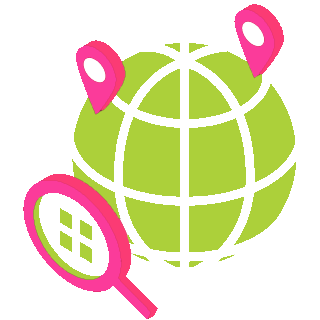
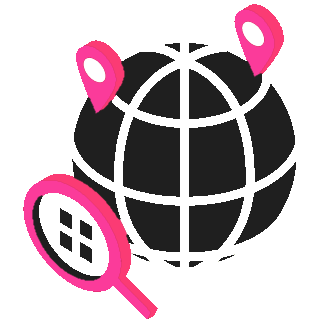
better background, inverted and mobile responsiveness

Changed region(s): [[0.5938, 0.125, 0.9375, 0.8438], [0.2188, 0.125, 0.5625, 0.8438], [0.0938, 0.5938, 0.3125, 0.875]]

diff --git a/index.html b/index.html
@@ -45,7 +45,7 @@
                     <div class="padding-xlg"></div>
                     <div class="right-side">
                         <div class="landing-title"> <span style="color: var(--white);">MIS</span><br><span class="second">INFORMATION</span><span style="font-size: 2vmax; color: var(--white);" class="disappear">/misinfər'māSH(ə)n/<span></div>
-                        <div class="landing-info">false or inaccurate information, especially that which <br>is deliberately intended to deceive.</div>
+                        <div class="landing-info">false or inaccurate information, especially that which <br class="disappear">is deliberately intended to deceive.</div>
                     </div>
                 </div>
             </div>
@@ -205,6 +205,9 @@
                     document.documentElement.style.setProperty('--white', '#1f1f1f');
                     document.documentElement.style.setProperty('--whiter', '#1f1f1f');
                     document.documentElement.style.setProperty('--grey', '#8F8F8F');
+                    document.documentElement.style.setProperty('--background', '#f1f1f1');
+                    document.documentElement.style.setProperty('--foreground', '#f1f1f177');
+     
                     $("#landing-img").attr("src","assets/landing-inverted.png");
 
                     $("#solutions-img-1").attr("src","assets/solutions/inverted/research-inverted.png");
@@ -228,6 +231,9 @@
                     document.documentElement.style.setProperty('--white', '#d4d4d4');
                     document.documentElement.style.setProperty('--whiter', '#FFFFFF');
                     document.documentElement.style.setProperty('--grey', '#707070');
+                    document.documentElement.style.setProperty('--background', '#000000');
+                    document.documentElement.style.setProperty('--foreground', '#00000077');
+
                     $("#landing-img").attr("src","assets/landing.png");
 
                     $("#solutions-img-1").attr("src","assets/solutions/research.png");

diff --git a/css/index.css b/css/index.css
@@ -6,6 +6,10 @@
     --darkred: #731010;
     --lightred: #a80000;
     --green: #ACD03A;
+
+    --background: #000000;
+    --foreground: #00000077;
+
 }
 
 * {
@@ -14,13 +18,28 @@
     padding: 0;
     margin: 0;
     font-smooth: always;
+
 }
 
 body {
     background-color: var(--black);
     overflow-x: hidden;
+    background-color: var(--black);
+    background-image:  
+        linear-gradient(30deg, var(--background) 12%, transparent 12.5%, transparent 87%, var(--background) 87.5%, var(--background)), 
+        linear-gradient(150deg, var(--background) 12%, transparent 12.5%, transparent 87%, var(--background) 87.5%, var(--background)), 
+        linear-gradient(30deg, var(--background) 12%, transparent 12.5%, transparent 87%, var(--background) 87.5%, var(--background)), 
+        linear-gradient(150deg, var(--background) 12%, transparent 12.5%, transparent 87%, var(--background) 87.5%, var(--background)), 
+        linear-gradient(60deg, var(--foreground) 25%, transparent 25.5%, transparent 75%, var(--foreground)  75%, var(--foreground) ), 
+        linear-gradient(60deg, var(--foreground)  25%, transparent 25.5%, transparent 75%, var(--foreground)  75%, var(--foreground) );
+    background-size: 20px 35px;
+    background-position: 0 0, 0 0, 10px 18px, 10px 18px, 0 0, 10px 18px;
 }
 
+.main-body-wrapper {
+    display: flex;
+    flex-direction: column;
+}
 .font-league {
     font-family: 'League Gothic', sans-serif;
 }
@@ -98,6 +117,15 @@ body {
     opacity: 0.40;
     z-index: 5;
     transition: opacity 0.3s;
+    box-shadow:
+    0.2px 0.3px 2.7px -7px rgba(0, 0, 0, 0.141),
+    0.4px 0.8px 6.6px -7px rgba(0, 0, 0, 0.202),
+    0.8px 1.5px 12.4px -7px rgba(0, 0, 0, 0.25),
+    1.3px 2.7px 22.1px -7px rgba(0, 0, 0, 0.298),
+    2.5px 5px 41.4px -7px rgba(0, 0, 0, 0.359),
+    6px 12px 99px -7px rgba(0, 0, 0, 0.5);
+  
+
 }
 
 .navbar-fixed > a {

diff --git a/css/types.css b/css/types.css
@@ -27,6 +27,7 @@
     margin: 1rem;
     background-color: var(--whiter);
     border: 15px solid var(--whiter);
+    
 }
 
 .type:hover {
@@ -47,6 +48,13 @@
     position: relative;
     margin: 1rem;
     background-color: var(--whiter);
+    box-shadow:
+    0.2px 0.3px 2.2px -18px rgba(0, 0, 0, 0.141),
+    0.4px 0.8px 5.3px -18px rgba(0, 0, 0, 0.202),
+    0.8px 1.5px 10px -18px rgba(0, 0, 0, 0.25),
+    1.3px 2.7px 17.9px -18px rgba(0, 0, 0, 0.298),
+    2.5px 5px 33.4px -18px rgba(0, 0, 0, 0.359),
+    6px 12px 80px -18px rgba(0, 0, 0, 0.5);
 }
 
 .image:hover {

diff --git a/css/responsive.css b/css/responsive.css
@@ -2,9 +2,24 @@
     .landing-wrapper {
         flex-direction: column;
     }
+    .landing-image {
+        text-align: center;
+       
+    }
+    .landing-title {
+        padding: 10px;
+        font-size: 7rem !important;
+    }
+    .landing-info {
+        font-size: 1.7rem;
+        padding: 15px;
+    }
     .types-row-1, .types-row-2 {
         flex-direction: column;
         justify-content: center;
+    }
+    .types-title {
+        font-size: 5.5rem;
     }
     .landing-title {
         font-size: 10rem; 

diff --git a/css/solutions.css b/css/solutions.css
@@ -25,6 +25,7 @@
     display: flex;
     flex-direction: row;
     justify-content: center;
+    
 }
 
 .left {

diff --git a/css/landing.css b/css/landing.css
@@ -1,7 +1,3 @@
-.down-button {
-
-}
-
 .landing-section {
     width: 100vw;
     height: 100vh;
